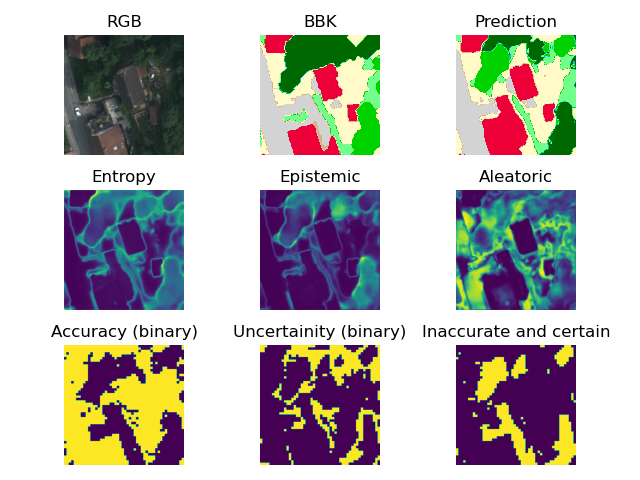
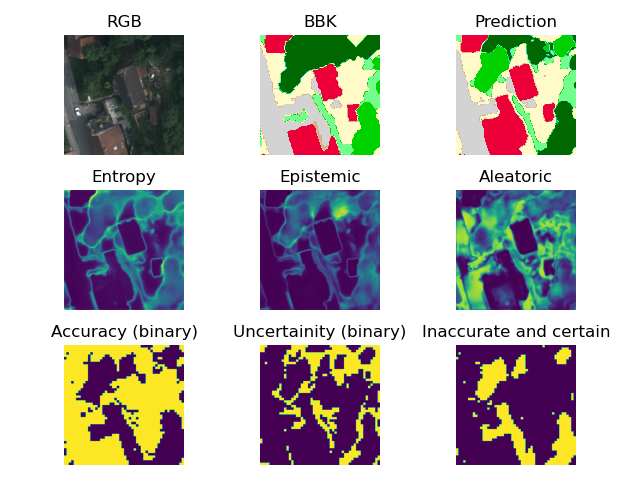
new data

diff --git a/example_data_aleatoric.py b/example_data_aleatoric.py
@@ -120,7 +120,8 @@ for i in dl:
 			#compute std to have aleatoric uncertainty
 			aleatoric_std = aleatoric_predictions.std(dim=0)
 			#compute the mean of std along the classes
-			aleatoric = aleatoric_std.mean(dim=1)[j].cpu().numpy()
+			batch_aletoric_std_mean = aleatoric_std.mean(dim=1)
+			aleatoric = batch_aletoric_std_mean[j].cpu().numpy()
 
 			# prepare uncertainity and accuracy maps
 			mask_true = i[1]
@@ -187,7 +188,7 @@ for i in dl:
 			plt.title('Epistemic') # equal to mutual information
 
 			plt.subplot(336)
-			plt.imshow(aleatoric)
+			plt.imshow(aleatoric, vmin=batch_aletoric_std_mean.min().cpu().numpy(), vmax = batch_aletoric_std_mean.max().cpu().numpy())
 			plt.axis('off')
 			plt.title('Aleatoric')
 

diff --git a/test.py b/test.py
@@ -45,7 +45,7 @@ if __name__ == "__main__":
 
     # define model
     #net = BayesianUNet(n_channels=7, n_classes=9, bilinear=False).to(device=device)
-    net = UNet(n_channels=7, n_classes=9, bilinear=args.bilinear)
+    net = UNet(n_channels=7, n_classes=9, bilinear=False).to(device=device)
 
     # load pretrained model parameters
     checkpoint_path = 'checkpoints_baseline/checkpoint_epoch60.pth'
